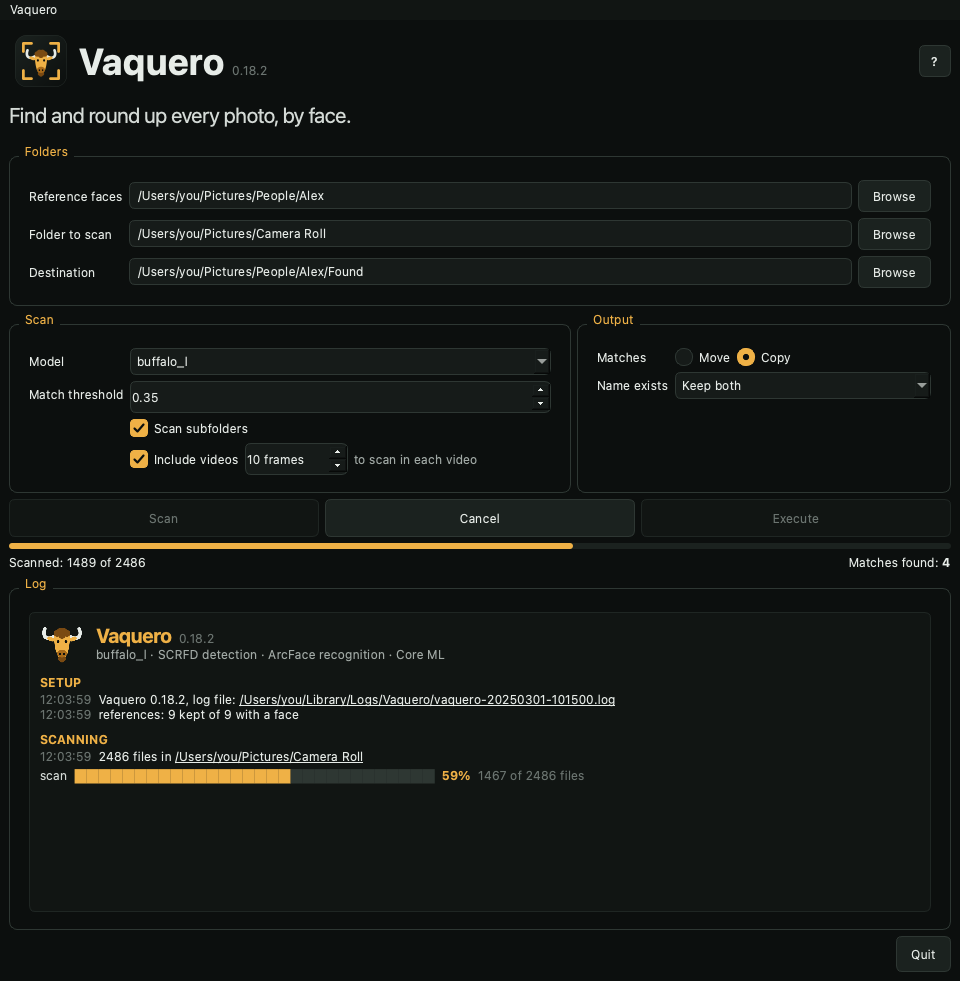
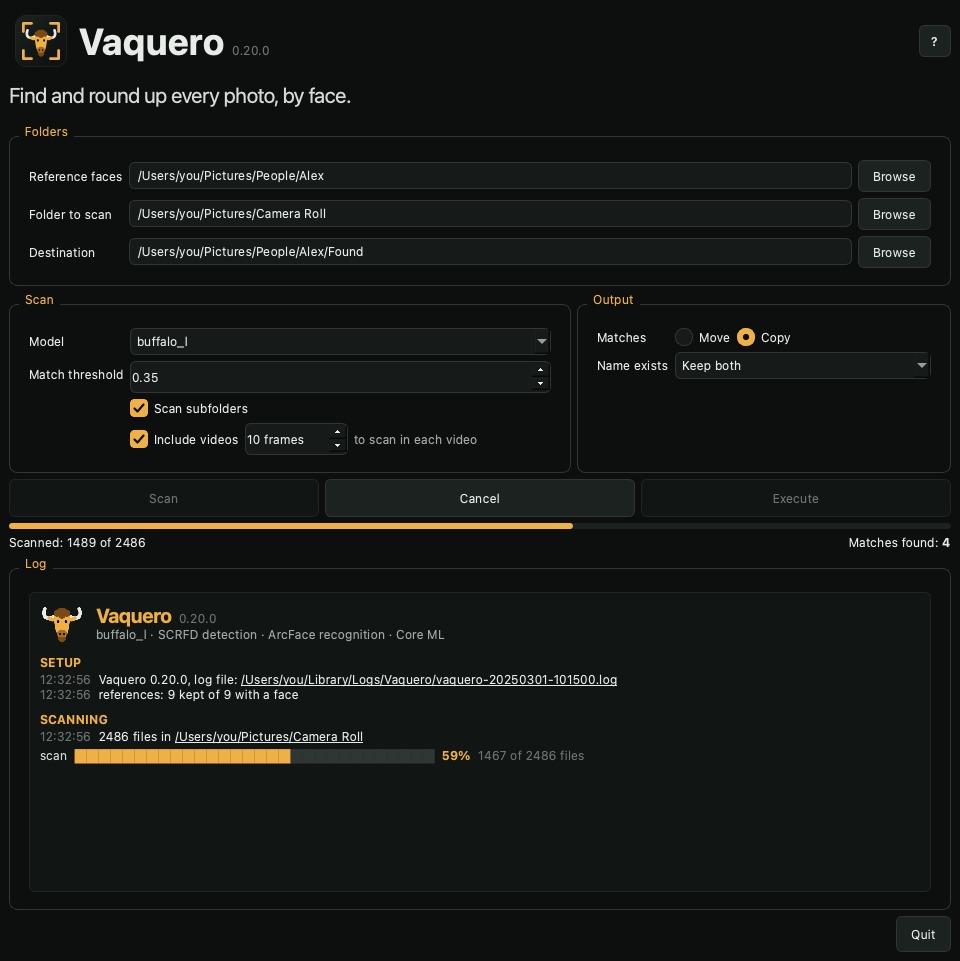
docs: amber ONNX Runtime badge, intro on three short lines, screenshots without the offscreen menu strip

diff --git a/scripts/screenshots.py b/scripts/screenshots.py
@@ -75,6 +75,7 @@ def main() -> None:
         sandbox(Path(tmp))
 
         w = ui.Window()
+        w.menuBar().hide()  # macOS puts the menu in the system bar; offscreen draws it in the window
         w.show()
         fill(w)
 

diff --git a/README.md b/README.md
@@ -4,7 +4,7 @@
   <br>
   <img src="https://img.shields.io/badge/Python-3776AB?style=for-the-badge&logo=python&logoColor=white" alt="Python"/>
   <img src="https://img.shields.io/badge/Qt-41CD52?style=for-the-badge&logo=qt&logoColor=white" alt="Qt"/>
-  <img src="https://img.shields.io/badge/ONNX_Runtime-005CED?style=for-the-badge&logo=onnx&logoColor=white" alt="ONNX Runtime"/>
+  <img src="https://img.shields.io/badge/ONNX_Runtime-efb146?style=for-the-badge&logo=onnx&logoColor=0c0f0e" alt="ONNX Runtime"/>
   <img src="https://img.shields.io/badge/Apple_Silicon-000000?style=for-the-badge&logo=apple&logoColor=white" alt="Apple Silicon"/>
   <br>
   <br>
@@ -23,7 +23,8 @@
 </p>
 
 <p align="center">
-  Point Vaquero at a few photos of someone. It finds every photo and video of them among thousands, then copies, moves or organizes them as you see fit.<br>
+  Point Vaquero at a few photos of someone.<br>
+  It finds every photo and video of them, then copies, moves or organizes them as you see fit.<br>
   Runs on an open-source AI model, right on your Mac.
 </p>
 
